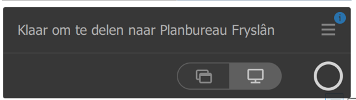
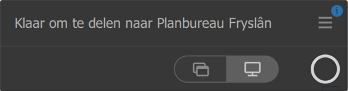
Verbetering handleiding vergaderschermen

diff --git a/handleidingen_kantoor/handleidingen_vergaderschermen.html b/handleidingen_kantoor/handleidingen_vergaderschermen.html
@@ -11,25 +11,29 @@
 		function $$(selector) {
 			return document.querySelectorAll(selector)
 		}
-		function refresh() {
-			room = $('#roomselector').value
-			console.log('room',room)
-			platform = $('#deviceselector').value
-			console.log('platform',platform)
-			
-			for (element of $$('.room')) {
-				element.style.display = ''
+		let selected_room = null, selected_os = null;
+		function refresh(room,os) {
+			if (room) {
+				selected_room = room
 			}
-			for (element of $$('.platform')) {
-				element.style.display = ''
+			if (os) {
+				selected_os = os
 			}
-			
-			if (room != 'none' && platform != 'none') {
-				$(`#${room}`).style.display = 'block'
-		
-				for (element of $$(`.platform_${platform}`)) {
-					element.style.display = 'block'
-				}
+			let button_only = !selected_room || !selected_os
+			button_only = false
+			switch_view('.room', `.room_${selected_room}`, button_only)
+			switch_view('.os', `.os_${selected_os}`, button_only)
+		}
+
+		function switch_view(typeselector, groupselector, button_only) {
+			for (element of $$(`${typeselector}`)) {
+				element.classList.remove('active')
+			}
+			if (button_only) {
+				groupselector = `button${groupselector}`
+			}
+			for (element of $$(`${groupselector}`)) {
+				element.classList.add('active')
 			}
 		}
 
@@ -37,40 +41,61 @@
 			let params = new URLSearchParams(document.location.search);
 			let room = params.get('room');
 			if (room) {
-				$('#roomselector').value = room
+				selected_room = room
 			}
-			let platform = params.get('platform');
-			if (platform) {
-				$('#deviceselector').value = platform
+			let os = params.get('os');
+			if (os) {
+				selected_os = os
 			}
-			refresh()
+			refresh(room, os)
 		}
 	</script>
 	<style>
 		body {
 			font-family: Sora, Arial;
+			background-color: #F7D76D;
 		}
-		.platform, .room {
+		button {
+			width: 50%;
+			max-width: 150px;
+			height: 50px;
+			background-color: #8D81B7;
+			border: 1px;
+			font-size: 1em;
+			color: white;
+		}
+		button.first {
+			border-radius: 10px 0 0 10px;
+		}
+		button.last {
+			border-radius: 0 10px 10px 0;
+		}
+		button.active {
+			background-color: #4C3D89;
+		}
+		div.room,
+		div.room .os {
 			display: none;
+		}
+		div.room.active,
+		div.room.active .os.active {
+			display: block;
+		}
+		div.room.active span.os.active {
+			display: inline;
+		}
+		img {
+			max-width: 100%;
 		}
 	</style>
 </head>
 <body onload="setup()">
 	<h1>Handleiding vergaderschermen</h1>
-	<label for="roomselector">Selecteer een vergaderscherm:</label>
-	<select name="room" id="roomselector" oninput="refresh()">
-		<option value="none">-- Kies een ruimte --</option>
-		<option value="wyn">It Wynskerm</option>
-		<option value="sinne">De Sinne Skerm</option>
-	</select>
-	<br>
-	<label for="deviceselector">Welk besturingssysteem gebruik je op je laptop?</label>
-	<select name="device" id="deviceselector" oninput="refresh()">
-		<option value="none">-- Kies een OS --</option>
-		<option value="macos">MacOS</option>
-		<option value="windows">Windows</option>
-	</select>
-	<div class="room" id="sinne">
+	<p style="margin-bottom: 0;">Selecteer een vergaderscherm:</p>
+	<button onclick="refresh('wyn',null)" class="first room room_wyn">It Wynskerm</button><button onclick="refresh('sinne',null)" class="last room room_sinne">De Sinne Skerm</button>
+	<p style="margin-bottom: 0">Welk besturingssysteem gebruik je op je laptop?</p>
+	<button onclick="refresh(null,'macos')" class="first os os_macos">MacOS</button><button onclick="refresh(null,'windows')" class="last os os_windows">Windows</button>
+	<div class="room room_sinne" id="sinne">
 		<h2>De Sinne Skerm</h2>
 		<p>Als je met het scherm in <b>1.6 De Sinne</b> wilt deelnemen aan een Teams vergadering, nodig dan bij Locatie <b>De Sinne Skerm</b> uit. De uitnodiging wordt automatisch geaccepteerd.</p>
 		<p>Op het scherm is de afspraak dan automatisch zichtbaar en je hoeft dan alleen nog maar op 'Deelnemen' te klikken.</p>
@@ -80,12 +105,12 @@
 		<p>Als er een blokje met de tekst ‘NO SIGNAL’ over het scherm gaat, moet je even op het scherm tikken om de Teams-omgeving wakker te maken.</p>
 		<h3>Dongle</h3>
 		<p>Er ligt een dongle waarmee je je scherm van de laptop kunt laten zien op het scherm (en kunt delen via Teams).</p>
-		<img src="./Dongle_Sinne.jpg">
-		<p>Als je deze aansluit opent na korte tijd het menu voor de ClickShare Button. Mocht dat niet gebeuren, kun je in de <span class="platform platform_windows">Windows-verkenner naar de externe schijf <b>ClickShare</b> gaan en <b>ClickShare_for_Windows</b></span><span class="platform platform_macos">Finder naar de externe schijf <b>ClickShare</b> gaan en <b>ClickShare_for_MacOSX</b></span> openen.</p>
+		<img src="./Dongle_Sinne.png">
+		<p>Als je deze aansluit opent na korte tijd het menu voor de ClickShare Button. Mocht dat niet gebeuren, <span class="os os_null">dan moet de applicatie handmatig gestart worden. Kies bovenaan deze pagina het besturingssysteem van je laptop voor instructies.</span><span class="os os_windows os_macos">kun je in de <span class="os os_windows">Windows-verkenner naar de externe schijf <b>ClickShare</b> gaan en <b>ClickShare_for_Windows</b></span><span class="os os_macos">Finder naar de externe schijf <b>ClickShare</b> gaan en <b>ClickShare_for_MacOSX</b></span> openen.</span></p>
 		<img src="ClickShareVenster_Sinne.png">
 		<p>Vervolgens kun je in het venster van ClickShare kiezen of je het hele scherm wilt delen of een bepaald venster. Door vervolgens op het witte cirkeltje te klikken, deel je het scherm. Op de grote knop op de dongle drukken werkt ook.</p>
 	</div>
-	<div class="room" id="wyn">
+	<div class="room room_wyn" id="wyn">
 		<h2>It Wynskerm</h2>
 		<p>Als je met het scherm in <b>0.1 De Wyn</b> wilt deelnemen aan een Teams-vergadering, nodig dan bij Locatie <b>It Wynskerm</b> uit. De uitnodiging wordt automatisch geaccepteerd.</p>
 		<p>Op het scherm en het bedieningspaneel is de afspraak dan automatisch zichtbaar en je hoeft dan alleen nog maar op 'Deelnemen' te klikken. Je hoeft niet met je laptop deel te nemen aan de vergadering.</p>
@@ -98,14 +123,14 @@
 		<p>Als je deze in je laptop inplugt, kan het zijn dat je scherm direct gedeeld wordt.</p>
 		<p>Als het lichtje op de dongle langzaam groen in- en uitfade, kun je op de knop op de dongle klikken en wordt je scherm gedeeld.</p>
 		<img src="Dongle_Wyn.png">
-		<p class="platform platform_macos">Het kan zijn dat je deze melding krijgt:</p>
-		<img class="platform platform_macos" src="MacOS_Verbinding toestaan_Wyn.png">
-		<p class="platform platform_macos">Hier kun je op 'Sta toe' klikken.</p>
-		<p class="platform platform_windows">Als onderstaand venster opent, kun je op 'Press to share' klikken om je scherm te delen.</p>
-		<img class="platform platform_windows" src="Yealink Wireless Presentation Pod.png">
-		<p class="platform platform_windows">Mocht deze niet automatisch starten, ga dan in de Verkenner naar de externe schijf <b>Yealink Pod</b> en open <b>PresentationLauncher</b>.</p>
-		<h3 class="platform platform_macos">Airplay</h3>
-		<p class="platform platform_macos">Het tv-scherm ondersteunt ook Airplay. De tv heet <b>SONY FW-75BZ30L</b></p>
+		<p class="os os_macos">Het kan zijn dat je deze melding krijgt:</p>
+		<img class="os os_macos" src="MacOS_Verbinding toestaan_Wyn.png">
+		<p class="os os_macos">Hier kun je op 'Sta toe' klikken.</p>
+		<p class="os os_windows">Als onderstaand venster opent, kun je op 'Press to share' klikken om je scherm te delen.</p>
+		<img class="os os_windows" src="Yealink Wireless Presentation Pod.png">
+		<p class="os os_windows">Mocht deze niet automatisch starten, ga dan in de Verkenner naar de externe schijf <b>Yealink Pod</b> en open <b>PresentationLauncher</b>.</p>
+		<h3 class="os os_macos">Airplay</h3>
+		<p class="os os_macos">Het tv-scherm ondersteunt ook Airplay. De tv heet <b>SONY FW-75BZ30L</b></p>
 	</div>
 </body>
 </html>